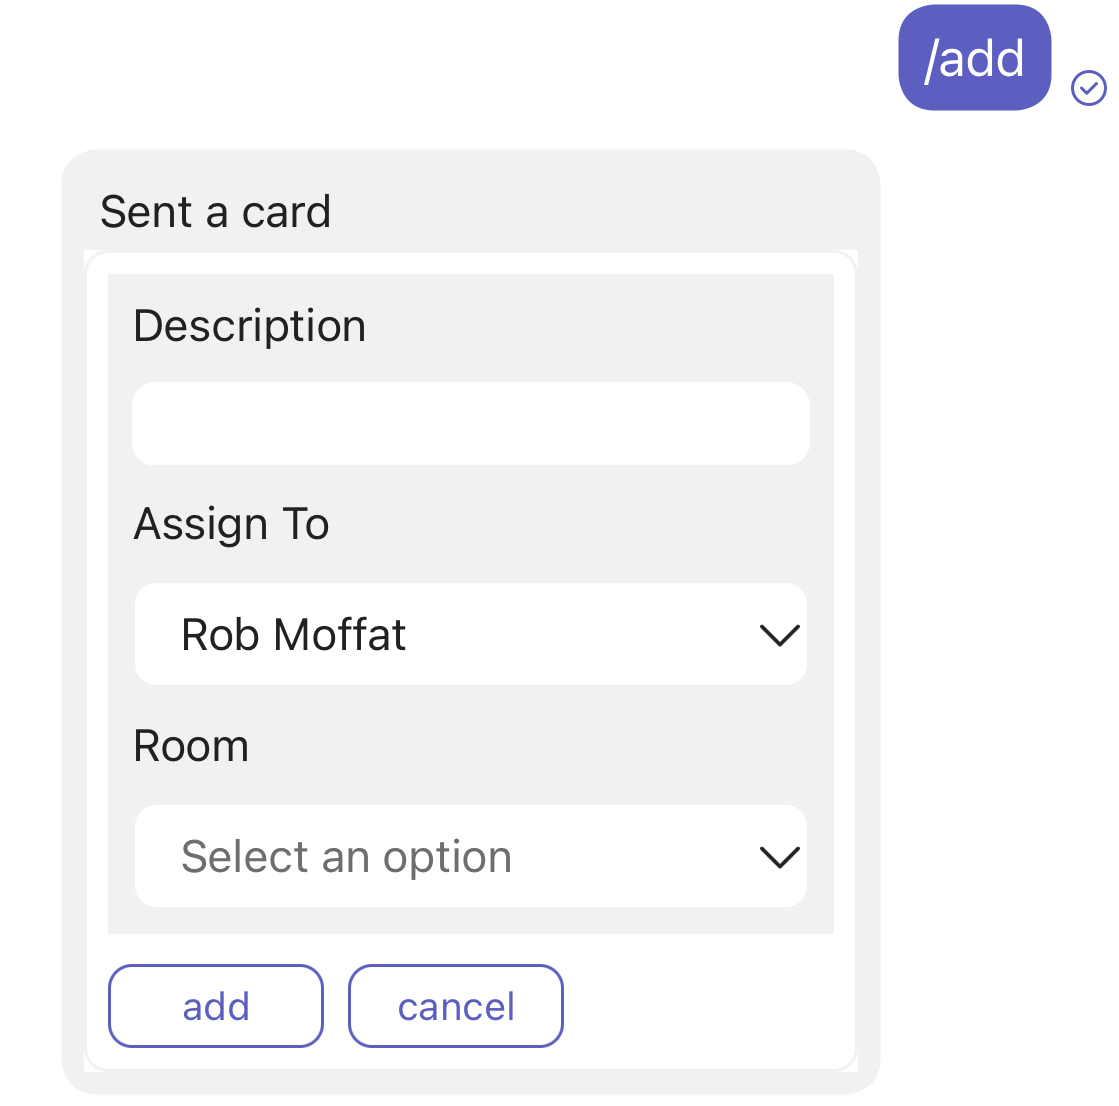
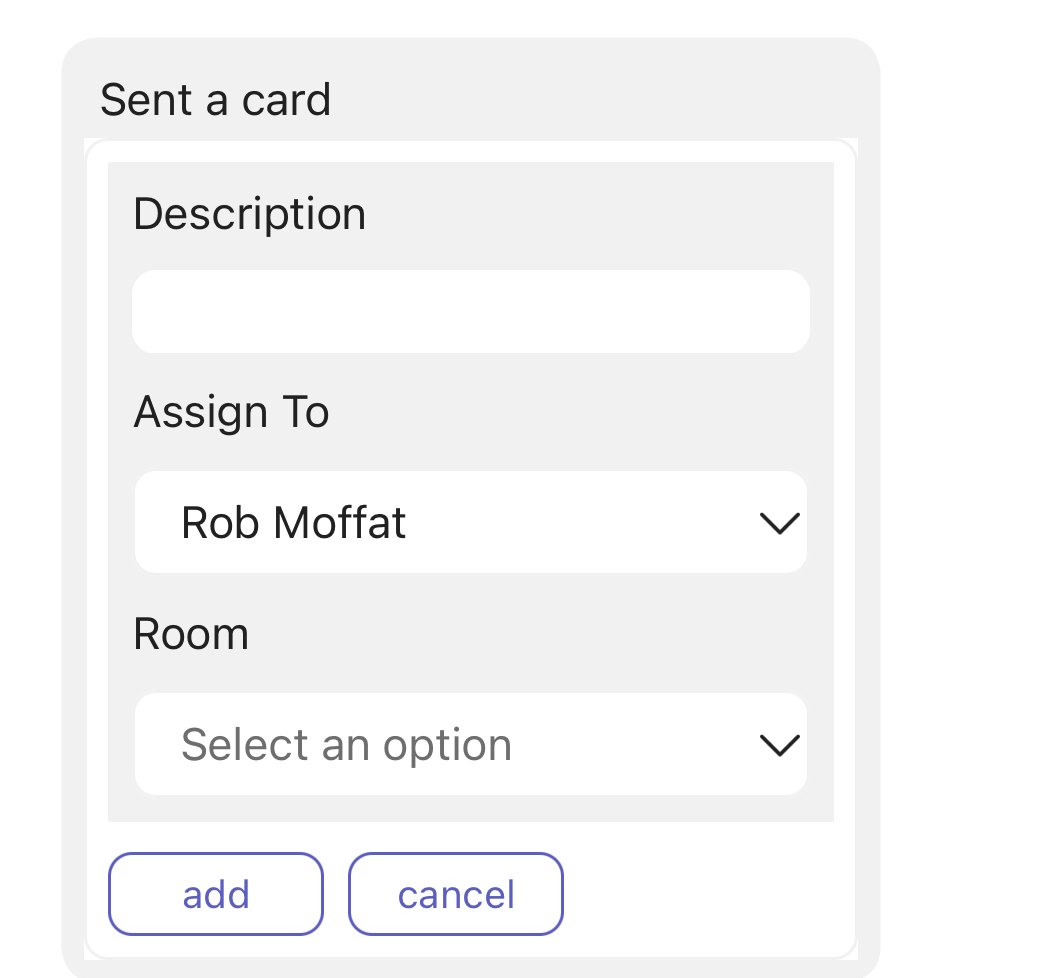
Made pics clearer

diff --git a/index.md b/index.md
@@ -105,6 +105,12 @@ When I type `/new` the bot responds with an empty To-Do list like so.
 
 ![Empty To-Do list](/assets/images/index/new.png)
 
+</div><div class="item"  markdown="1">
+
+This is the same code running on Microsoft Teams mobile.
+
+</div><div class="item"  markdown="1">
+
 ![Empty To-Do list Teams](/assets/images/index/new-teams.png)
 
 </div><div class="item"  markdown="1">
@@ -140,11 +146,19 @@ This button will then appear on my To-Do List.
 
 ![Add Button](/assets/images/index/add.png)
 
+</div><div class="item"  markdown="1">
+
+Pressing that button gives me a form to fill in, containing the `NewItemDetails` fields.
+
+This is Microsoft Teams Mobile again.
+
+</div><div class="item"  markdown="1">
+
 ![Add Button](/assets/images/index/add-teams.jpeg)
 
 </div><div class="item"  markdown="1">
 
-... and so on. [Tutorial continues here.](getting-started.md)
+... and so on. [Tutorial continues here.](symphony.md)
 
 </div></div>
 

diff --git a/symphony.md b/symphony.md
@@ -5,7 +5,7 @@ nav_order: 3
 nav-menu: true
 ---
 
-# A To-Do List Using Spring Bot on Symphony
+# A To-Do List Using Spring Bot
 {: no_toc }
 
 <details open markdown="block">
@@ -18,7 +18,7 @@ nav-menu: true
 </details>
 
 This tutorial will take you through the process of creating a new Spring Bot application
-and running it inside the Symphony container.
+and running it inside the Symphony container.  Note: the code for this bot will also work on Microsoft Teams, but you'll have to follow the steps on the [Teams Tutorial](Microsoft-Teams.md) to make it work there too. 
 
 We're going to build a "To Do" list with the following features:
 
